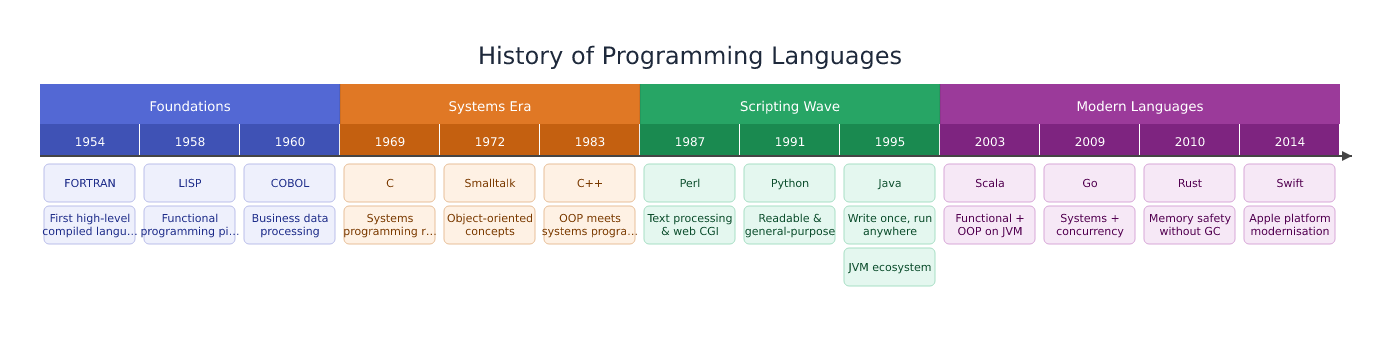
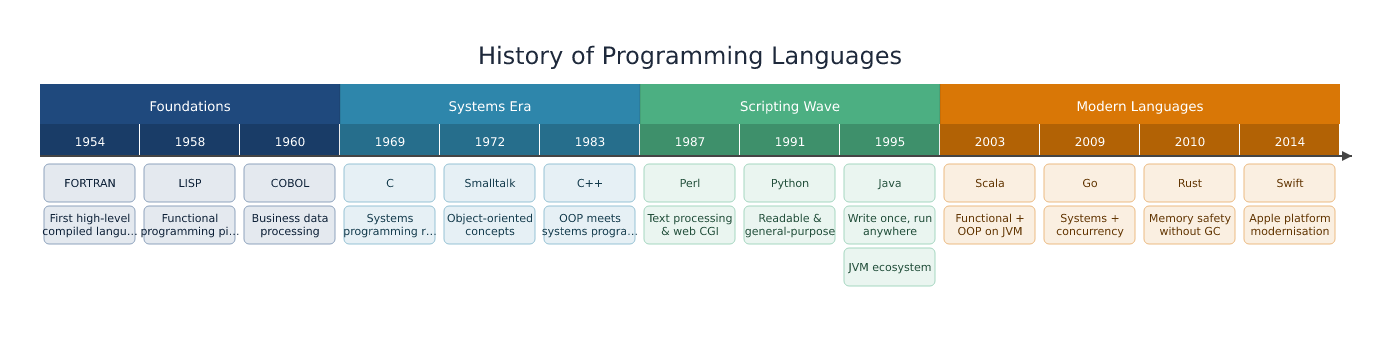
fix(theme): timeline section fills consult the categorical palette
Closes the migration step-1 partial: timeline-columns.ts hardcoded its section/
event palette, so executive-timeline showed the Mermaid rainbow instead of the
executive palette. Now:
- ResolvedTheme gains an optional sectionPalette; timeline-columns reads
  theme.sectionPalette ?? SECTION_PALETTE_DEFAULT (the prior hardcoded array).
- bindTimelineTheme sets sectionPalette from contract.palette.data.categorical.

Legacy timeline themes don't set sectionPalette -> fall back to the verbatim
default -> byte-identical (only executive-timeline.svg changed). executive-
timeline now wears the navy-anchored executive palette and coheres with the
full executive set. Full suite 1976 passing.

diff --git a/packages/core/src/layout/timeline-columns.ts b/packages/core/src/layout/timeline-columns.ts
@@ -74,7 +74,14 @@ interface SectionColors {
   eventBorder: string;
 }
 
-const SECTION_PALETTE: SectionColors[] = [
+/**
+ * Mermaid-faithful fallback palette (8 distinct hues).
+ *
+ * Used verbatim when `theme.sectionPalette` is not set, guaranteeing that
+ * every existing legacy theme produces BYTE-IDENTICAL output after this change.
+ * Do NOT modify this array — it must stay exactly as originally shipped.
+ */
+const SECTION_PALETTE_DEFAULT: SectionColors[] = [
   // Indigo
   {
     header:      '#5368D4',
@@ -148,6 +155,84 @@ const SECTION_PALETTE: SectionColors[] = [
     eventBorder: '#90B8D8',
   },
 ];
+
+// ---------------------------------------------------------------------------
+// Section color derivation from a single base hex color
+// ---------------------------------------------------------------------------
+
+/**
+ * Parse a `#RRGGBB` hex color into its R/G/B channel values.
+ * Deterministic (no locale, no Date, no random).
+ */
+function hexToRgb(hex: string): [number, number, number] {
+  const r = parseInt(hex.slice(1, 3), 16);
+  const g = parseInt(hex.slice(3, 5), 16);
+  const b = parseInt(hex.slice(5, 7), 16);
+  return [r, g, b];
+}
+
+/** Encode R/G/B channel values back to `#RRGGBB`. */
+function rgbToHex(r: number, g: number, b: number): string {
+  const clamp = (v: number) => Math.min(255, Math.max(0, Math.round(v)));
+  return '#' + [clamp(r), clamp(g), clamp(b)].map((v) => v.toString(16).padStart(2, '0')).join('');
+}
+
+/** Darken a hex color by multiplying each channel by `factor` (0–1). */
+function darkenHex(hex: string, factor: number): string {
+  const [r, g, b] = hexToRgb(hex);
+  return rgbToHex(r * factor, g * factor, b * factor);
+}
+
+/** Tint a hex color toward white by blending `tintFrac` (0 = original, 1 = white). */
+function tintHex(hex: string, tintFrac: number): string {
+  const [r, g, b] = hexToRgb(hex);
+  return rgbToHex(
+    r + (255 - r) * tintFrac,
+    g + (255 - g) * tintFrac,
+    b + (255 - b) * tintFrac,
+  );
+}
+
+/**
+ * Derive a full SectionColors entry from a single base hex color.
+ *
+ * Derivation ratios are chosen to produce:
+ *   header      — the base color itself (saturated, authoritative band fill)
+ *   period      — darkened 18 % (reads as a sub-header under the section band)
+ *   event       — tinted 88 % toward white (very light wash for legibility)
+ *   headerText  — always #FFFFFF (works for all executive palette entries)
+ *   eventText   — darkened 55 % (dark text, always legible on the light event bg)
+ *   eventBorder — tinted 50 % toward white (medium-saturation outline)
+ */
+function sectionColorsFromBase(base: string): SectionColors {
+  return {
+    header:      base,
+    period:      darkenHex(base, 0.82),
+    event:       tintHex(base, 0.88),
+    headerText:  '#FFFFFF',
+    eventText:   darkenHex(base, 0.45),
+    eventBorder: tintHex(base, 0.50),
+  };
+}
+
+/**
+ * Resolve the section-color entry for index `i` from the theme.
+ *
+ * When `theme.sectionPalette` is set, derive full SectionColors from the
+ * base color at `i % palette.length` — allowing contract themes (executive)
+ * to drive section bands from their data palette.
+ *
+ * When not set, fall back to SECTION_PALETTE_DEFAULT — the unchanged
+ * Mermaid-faithful array, guaranteeing byte-identical output for all
+ * legacy themes that do not supply sectionPalette.
+ */
+function resolveSectionColors(theme: import('../themes/types.js').ResolvedTheme, i: number): SectionColors {
+  if (theme.sectionPalette && theme.sectionPalette.length > 0) {
+    const base = theme.sectionPalette[i % theme.sectionPalette.length]!;
+    return sectionColorsFromBase(base);
+  }
+  return SECTION_PALETTE_DEFAULT[i % SECTION_PALETTE_DEFAULT.length]!;
+}
 
 // ---------------------------------------------------------------------------
 // Geometric constants
@@ -276,8 +361,9 @@ function buildSectionTree(ir: IRDocument): ColumnSection[] {
  * Produce a Scene for the Mermaid-faithful section-column timeline layout.
  *
  * Called exclusively via `layout()` when family === 'timeline-columns'.
- * The `theme` parameter is consumed for typography and canvas defaults only;
- * section colors are provided by the internal SECTION_PALETTE.
+ * Typography and canvas come from the `theme` parameter.  Section colors come
+ * from `theme.sectionPalette` (when set — e.g. executive contract) or from the
+ * built-in Mermaid-faithful SECTION_PALETTE_DEFAULT (all legacy themes).
  */
 export function layoutTimelineColumns(
   ir:       IRDocument,
@@ -369,7 +455,7 @@ export function layoutTimelineColumns(
 
   for (let si = 0; si < sections.length; si++) {
     const section   = sections[si]!;
-    const colors    = SECTION_PALETTE[si % SECTION_PALETTE.length]!;
+    const colors    = resolveSectionColors(theme, si);
     const sectionW  = rhuInt(colW * section.periods.length);
 
     // ── Section header band ───────────────────────────────────────────────

diff --git a/packages/core/src/themes/types.ts b/packages/core/src/themes/types.ts
@@ -580,4 +580,25 @@ export interface ResolvedTheme {
    * Has NO effect on horizontal, vertical-spine, or serpentine layouts.
    */
   roadmap?: RoadmapTheme;
+
+  /**
+   * Base color palette for `timeline-columns` section header bands and event boxes.
+   *
+   * Each entry is a hex color string used as the "base" hue for one section.
+   * Colors are applied cyclically: section 0 → [0], section 1 → [1], etc.
+   * The full per-section color set (header fill, period fill, event background,
+   * text colors, borders) is derived from each base color inside the layout engine.
+   *
+   * ## Determinism guarantee
+   * OPTIONAL.  When not set, `timeline-columns` falls back to its built-in
+   * Mermaid-faithful indigo/orange/emerald/purple rainbow palette — keeping all
+   * existing golden outputs BYTE-IDENTICAL.  Only themes that explicitly set this
+   * field (e.g. the `executive` contract binding) will see changed section colors.
+   *
+   * ## Usage
+   * Set from `contract.dataPalette.categorical` in `bindTimelineTheme()` so that
+   * the executive (and any future contract) timeline sections wear the same
+   * data-palette hues as charts and other data-driven diagram types.
+   */
+  sectionPalette?: string[];
 }

diff --git a/packages/core/src/themes/contract-binding.ts b/packages/core/src/themes/contract-binding.ts
@@ -338,5 +338,10 @@ export function bindTimelineTheme(contract: ThemeContract): ResolvedTheme {
 
     // Entry cards: enable when fidelity >= 2 and corner radius is set
     entryStyle: (effects.fidelity >= 2 && shape.cornerRadius > 0) ? 'card' : 'plain',
+
+    // Section-column palette: drive timeline-columns section bands from the
+    // contract's categorical data palette instead of the Mermaid rainbow.
+    // The layout derives full per-section SectionColors from each base hex.
+    sectionPalette: contract.dataPalette.categorical.slice(),
   };
 }